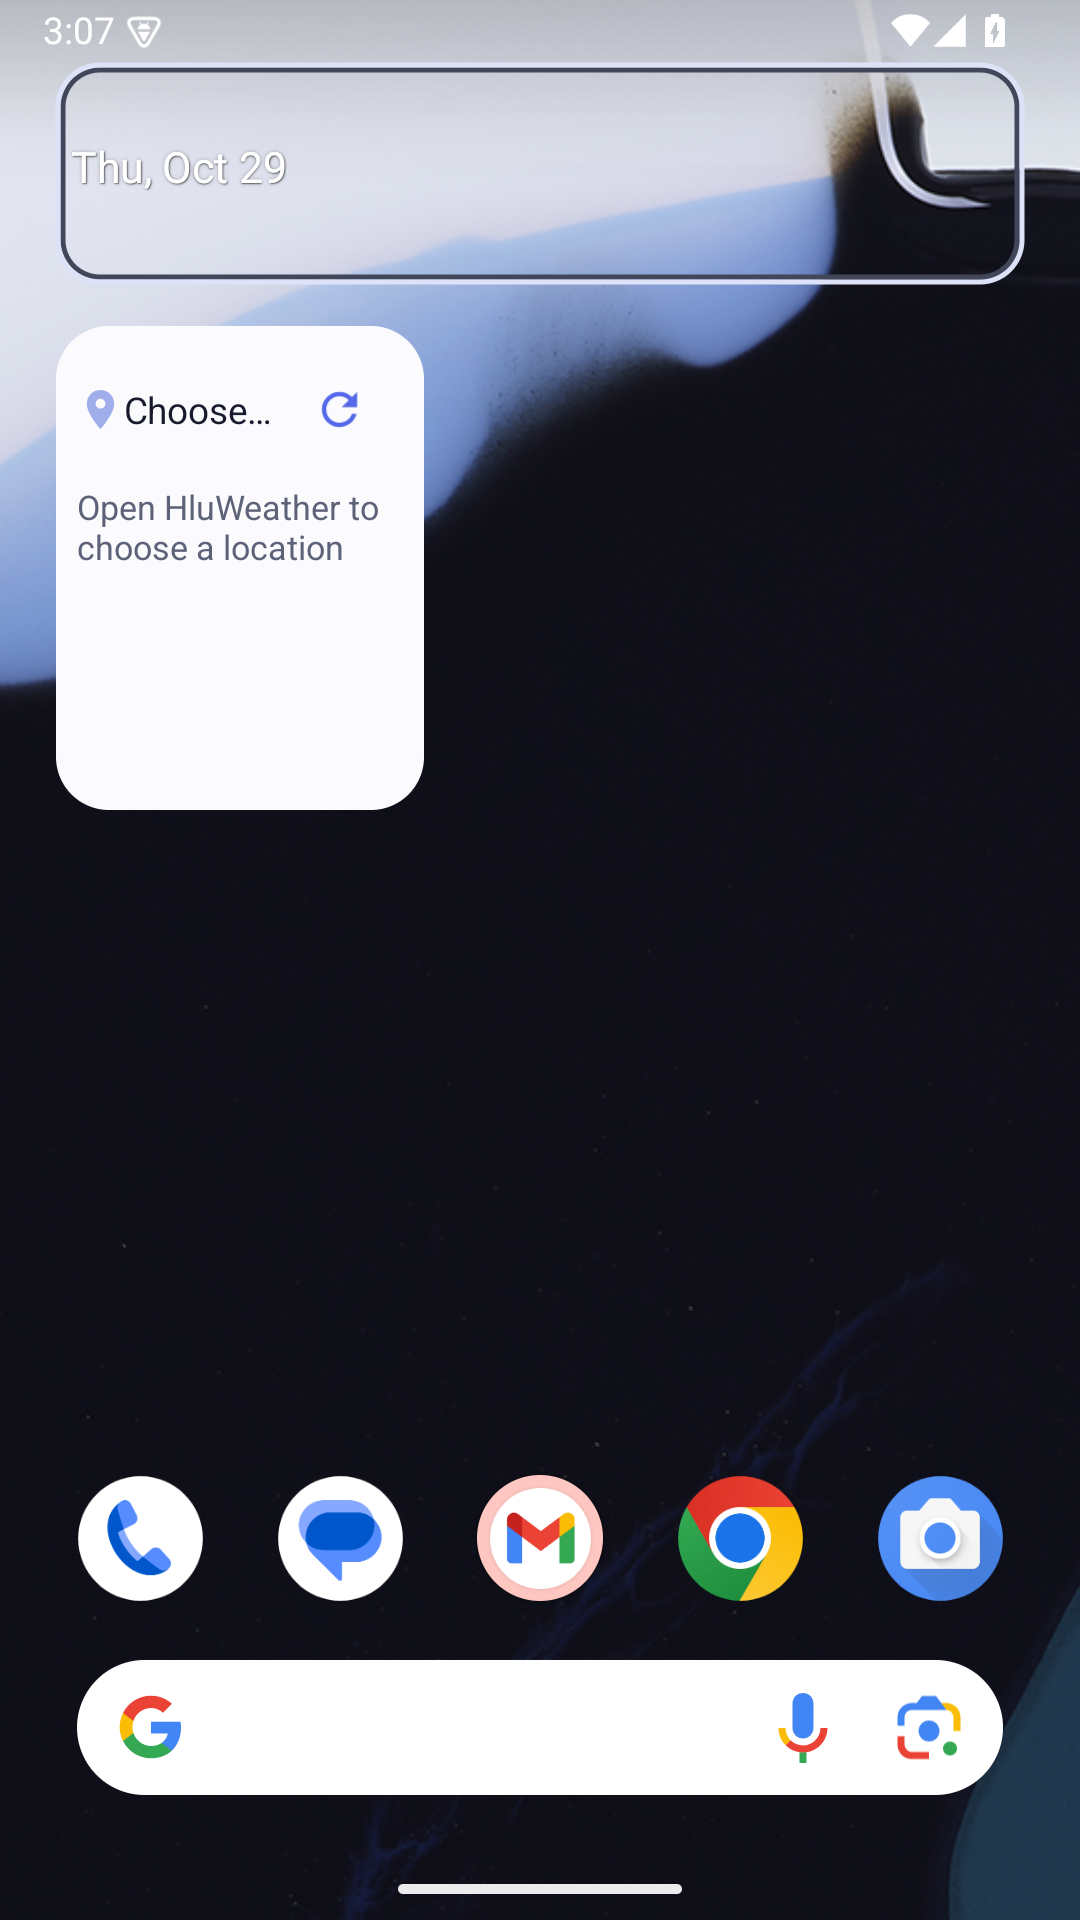
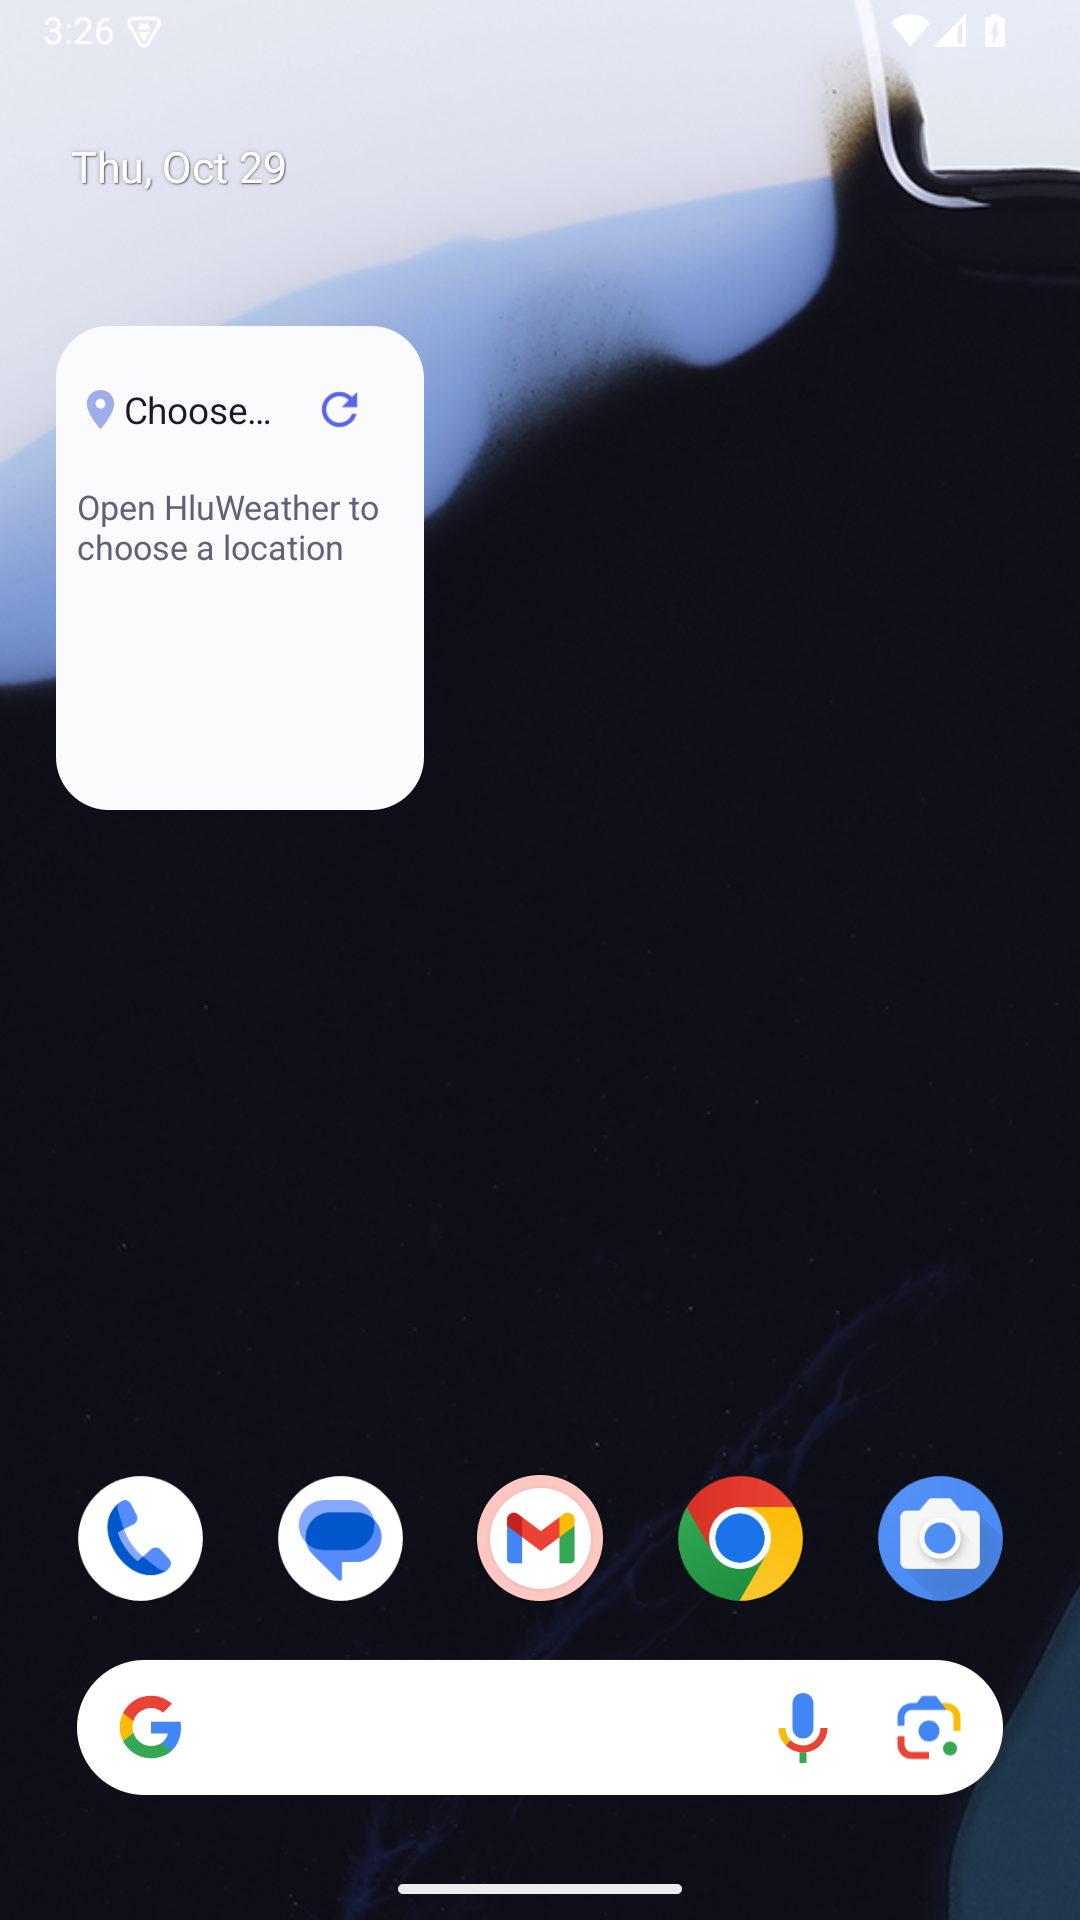
docs: verify 4x2 launcher sizing and record runtime blockers

Changed region(s): [[0.0, 0.0, 1.0, 0.1562], [0.0611, 0.125, 0.0917, 0.1562]]

diff --git a/docs/widgets/launcher-qa.md b/docs/widgets/launcher-qa.md
@@ -5,7 +5,7 @@
 Long-press an empty area of the home screen, open **Widgets**, search for HluWeather (shown as **HluWeatherApp** on the tested Pixel Launcher), and add either preview:
 
 - Provider labels declared by the app: **HluWeather · Current weather** (2×2 target; current conditions only) and **HluWeather · Hourly forecast** (4×2 target; current conditions plus three to five upcoming hours).
-- On API 35 Pixel Launcher, the picker groups both under **HluWeatherApp**. The current medium provider declares a 4×2 target and 260×110 dp minimum, but the launcher still shows and places it as **4 × 3** after installing the corrected APK and rebooting the AVD. This is an unresolved runtime mismatch, not a 4×2 pass; see the dated result below.
+- On the tested API 35 Pixel Launcher, both entries are named **HluWeatherApp**; their descriptions and **2 × 2** / **4 × 2** size labels distinguish them. Actual medium 4×2 placement is verified. The earlier 4×3 result came from stale Android provider metadata, resolved without another layout change; see the dated evidence below.
 
 Both providers are declared resizable and have no configuration activity. They share the app's selected provider, location, temperature unit, and theme. Change those in HluWeather; installed widgets re-render from matching cached weather. Explicit Light/Dark app themes take precedence over Android appearance; System follows it. Tapping the card or location opens the main weather screen. The separate refresh control requests an update without opening the app.
 
@@ -16,7 +16,7 @@ In Track Me mode, the widget uses a fix the app already obtained, including a pa
 ## Launcher QA checklist
 
 - [ ] **Picker and placement:** confirm both previews, the actual launcher labels, descriptions, and sizes; compare with the declared provider labels above. Add one of each and confirm neither launches a configuration step.
-- [ ] **Resize:** exercise the small widget's minimum (110×110 dp) and compact/normal/wide branches; keep location, icon, temperature, and refresh visible, with secondary rows dropped before clipping. Resize medium down to its compact 260×110 dp minimum and across three-, four-, and five-hour branches (about 260, 320, and 400 dp wide at 1× font scale); verify dividers and no horizontal overflow. API 35 currently reports 4×3 for medium and has not verified compact-height or width branches; see runtime result. The small widget has no hourly strip.
+- [ ] **Resize:** exercise the small widget's minimum (110×110 dp) and compact/normal/wide branches; keep location, icon, temperature, and refresh visible, with secondary rows dropped before clipping. Resize medium down to its compact 260×110 dp minimum and across three-, four-, and five-hour branches (about 260, 320, and 400 dp wide at 1× font scale); verify dividers and no horizontal overflow. Launcher cells are not fixed dp sizes: two rows on the tested grid are taller than 110 dp. The small widget has no hourly strip.
 - [ ] **Names and font scale:** use a long saved-location name and larger Android font/display size; confirm end ellipsis leaves refresh available, temperatures remain legible, and lower-priority content yields space.
 - [ ] **TalkBack:** check location, condition and unit-bearing temperature, hourly time/temperature/probability, and the “Refresh weather” action; decorative icons should not be announced twice. Missing precipitation must not sound like 0%.
 - [ ] **Settings synchronization:** change provider, saved location/Track Me mode, Celsius/Fahrenheit, and Light/Dark/System. Confirm correct identity/units/colors update from cache without requiring a successful fetch; in System mode, change Android appearance and confirm both widget sizes follow it.
@@ -44,6 +44,31 @@ Runtime checks are recorded separately below; “not run” means no device-leve
 | Runtime target | Result |
 | --- | --- |
 | API 28 launcher | **NOT RUN** — no API 28 device, AVD, platform, or system image is installed locally; no download was attempted. |
[2 lines of base64/hex data omitted]
 
-The existing small instance remained visible at 2×2 after the APK update. The placed medium widget rendered the no-location state without visible overflow at its actual 4×3 size. Tapping its refresh control left `com.google.android.apps.nexuslauncher/.NexusLauncherActivity` in the foreground. The AVD reboot preserved the pre-existing widget instances. A medium resize overlay appeared, but ADB drag attempts did not change the bounds; compact two-row resizing and the available 260/320/400 dp width branches are **NOT RUN / unverified**. The emulator log showed its startup helper using `/home/homoludens/bin/adb` v36 while SDK platform-tools v41 was in use, causing an ADB server-version mismatch; repeat resize checks with one consistent ADB client before attributing that gesture result to the widget. No saved location was configured, so live weather, cache/offline/failure, settings/theme/unit sync, and Track Me checks were **NOT RUN**; no provider request was made. TalkBack/font scaling and last-widget work cancellation are also **NOT RUN**. An initial Android System UI “isn't responding” prompt recovered after choosing **Wait**; later launcher checks proceeded. Robolectric examples/tests are not substitutes for these device checks.
+### 4×3 investigation: stale metadata, not another layout fix
+
+The on-device `base.apk`, the previously pulled APK, and the local build all had the SHA-256 above. The installed package had one base APK, not an old split. However, before reinstalling, `dumpsys appwidget` held medium `min=(66561x36865)` / `minResize=(66561x36865)`, while that APK's XML encoded 260×110 dp. These service numbers are **Android complex dimension encodings, not pixels or literal dp**: `36865 = 0x9001` encodes 144 dp; `28161 = 0x6e01` encodes 110 dp.
+
+Booted with SDK platform-tools first on `PATH` and isolated ADB server port 5057, waited for boot, then used `/home/homoludens/Android/Sdk/platform-tools/adb -P 5057 -s emulator-5562 install -r app/build/outputs/apk/google/debug/app-google-debug.apk`. This identical-APK reinstall changed the service values to `min=(66561x28161)` / `minResize=(66561x28161)`. They remained correct after another reboot. No existing app data or launcher database was cleared. The exact reason the earlier install left the old metadata is unproven; the previous ADB version mismatch is not proof of causation.
+
+Android 15's [provider parser](https://android.googlesource.com/platform/frameworks/base/+/android-15.0.0_r1/services/appwidget/java/com/android/server/appwidget/AppWidgetServiceImpl.java) stores `TypedValue.data`; its [launcher span calculation](https://android.googlesource.com/platform/packages/apps/Launcher3/+/android-15.0.0_r1/src/com/android/launcher3/widget/LauncherAppWidgetProviderInfo.java) accepts Android 12+ target cell attributes only within the calculated resize limits. Declaring `targetCellHeight=2` alone is therefore not a runtime verification. Here the corrected service metadata, actual [picker](launcher/api35-picker.png), direct placement, and launcher model `span(4,2) minSpan(4,2)` agree. Existing 4×3 instances kept their positions until manually resized, as expected. Selected command output is retained in [API 35 evidence](launcher/api35-evidence.txt).
+
+### Observed results and remaining checks
+
+| Check | Actual result |
+| --- | --- |
+| Picker / no configuration / empty state | **PASS.** Both previews/descriptions visible; small 2×2 and medium 4×2. Medium **Add** placed directly without configuration. Existing small remained 2×2. [Small empty state](launcher/api35-small-empty-state.png), [new 4×2 medium empty state](launcher/api35-medium-empty-state.png). |
+| Resize and hourly columns | **PARTIAL PASS.** Resized an older medium from 4×3 to [4×2 with three hours](launcher/api35-medium-two-rows.png), then [5×2 with four hours](launcher/api35-medium-wide.png). Current weather, dividers, hours, temperatures and probabilities fit at 100% font scale. Host bounds were 768×484 and 968×484 pixels respectively (about 293×184 and 369×184 dp, before host padding). Exact 260×110 dp minimum, small minimum resizing, and the 400 dp/five-hour branch are **NOT RUN**: this portrait grid did not supply those dimensions. |
+| Live weather and refresh | **FAILED prompt snapshot update.** Added Zaječar through the existing app location-search/save UI and fetched Open-Meteo weather through the app's normal repository. WorkManager logged selection refresh success at 03:29:05 and manual success at 03:29:39, but at 03:30 both visible cards still showed [no weather / Refreshing](launcher/api35-refresh-snapshot-lag.png). Later session recreation/re-rendering displayed cached weather, sometimes still with an old “Updating” status. This is not a clean refresh/loading-clear pass. Repeated-tap coalescing was **NOT RUN**. |
+| Actions | **PARTIAL PASS.** Refresh taps left `com.google.android.apps.nexuslauncher/.NexusLauncherActivity` foreground, including offline. Location-header taps opened the main weather screen. Card-background taps after a resize/removal gesture did not reliably open the app; that hit area needs a manual retest, not a claimed pass. |
+| Long name / 130% font scale | **FAILED medium vertical fit.** Location ellipsis preserved refresh, and the small temperature/icon remained visible, but the medium apparent-temperature text ellipsized and precipitation text was visibly clipped at the bottom of its row. [Actual 130% capture](launcher/api35-font-130-clipping.png). Restored font scale to 1.0. Larger display size and other accessibility scales are **NOT RUN**. |
+| Explicit dark / Fahrenheit / offline cache | **PARTIAL PASS.** Disabled this AVD's Wi-Fi and mobile data, changed app theme to Dark and units to Fahrenheit, then refreshed. A later render showed dark cards, 49°F with apparent 47°F, retained hourly values, stale status, and the original 03:32 forecast timestamp—not the attempt time. This demonstrates cached presentation, not prompt settings synchronization; the snapshot delay above also affected initial settings updates. Wi-Fi/mobile data were restored afterward. System-theme switching, Light override, provider/selected-location switching, and timed online recovery are **NOT RUN**. |
+| Reboot / process death | **PASS for cached restoration.** An AVD reboot while offline preserved all four placed instances, weather, dark/Fahrenheit presentation and the 03:32 timestamp; [offline reboot capture](launcher/api35-offline-reboot.png). Provider metadata remained 110 dp and the new medium remained 4×2. Also killed only this background app process with `am kill`; later refresh re-created it without clearing data. Exact periodic execution timing after reboot is **NOT RUN**. |
+| TalkBack | **NOT RUN.** No audible screen-reader interaction was performed. UIAutomator exposed location, unit-bearing temperatures, hourly condition/probability and “Refresh weather” descriptions; this is semantic inspection, not a TalkBack pass. |
+| Track Me without GPS | **NOT RUN.** The test used a saved location and did not create/grant a current-location fix. No widget GPS/passive-fix fallback claim is made. |
+| Last-widget removal / work cancellation | **NOT RUN / unverified.** ADB drag-and-drop attempts entered resize mode instead of removing the widget. All four QA instances remain; neither last-instance cancellation nor mixed-size removal is claimed. |
+
+The initial System UI “isn't responding” prompt recovered after **Wait**. A fresh task-only API 35 AVD was created from the already-local image as an unused diagnostic fallback; it was not booted or used as evidence. No API 28 image was downloaded and no physical device or unrelated ADB server was touched.
+
+**Task 6.5 stays open:** the 4×2 blocker is resolved, but runtime refresh-snapshot and font-scale failures need separately authorized fixes/reverification; this QA-only fallback did not change those implementations. Task 6.3 also stays open: its previously recorded full-suite result is 617/618, not green. The APK and prior 119 passing widget unit tests are unchanged, not newly rerun here.

diff --git a/openspec/changes/add-home-screen-weather-widgets/tasks.md b/openspec/changes/add-home-screen-weather-widgets/tasks.md
@@ -57,3 +57,4 @@ High-complexity tasks are limited to interrupted-refresh recovery, concurrent re
[1 lines of base64/hex data omitted]
 - [ ] 6.5 [low] Add a concise widget usage and launcher QA checklist covering picker entries, resize, font scaling, TalkBack, theme, manual refresh, offline cache, Track Me fallback without GPS, reboot/process death, and removal of the last widget; verify on API 28 and a modern Android launcher when available, and record screenshots/results plus any runtime checks that could not be performed without claiming them as tested.
[2 lines of base64/hex data omitted]
